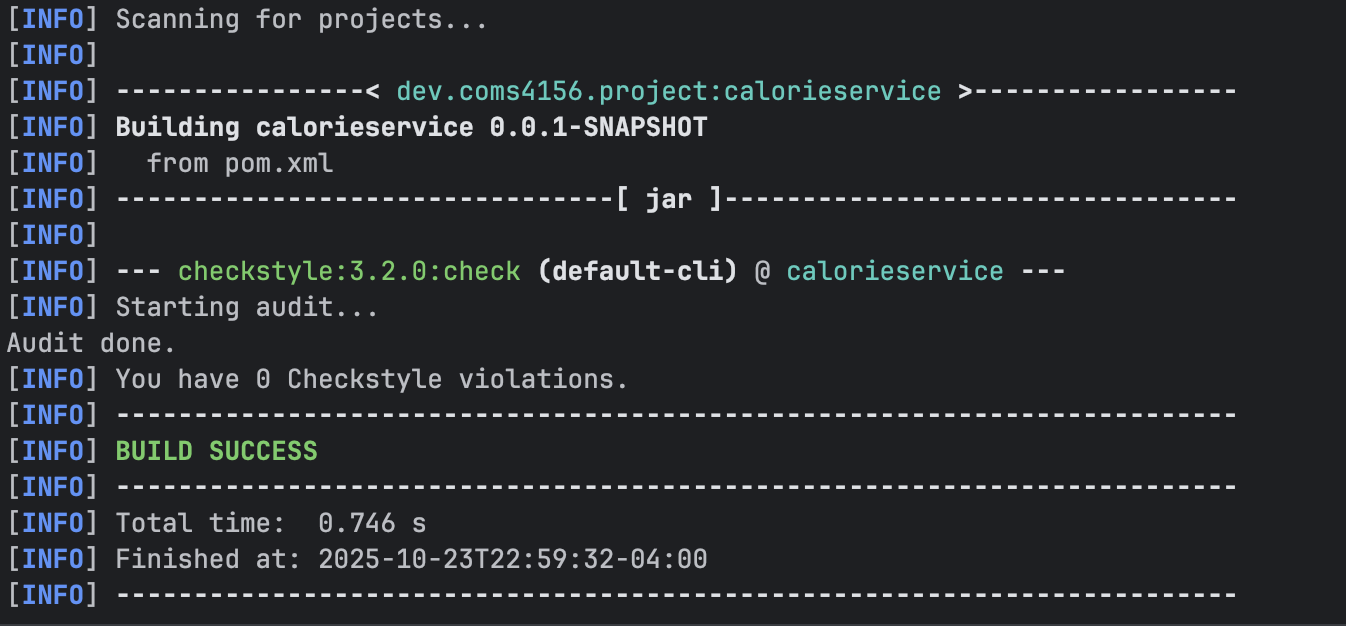
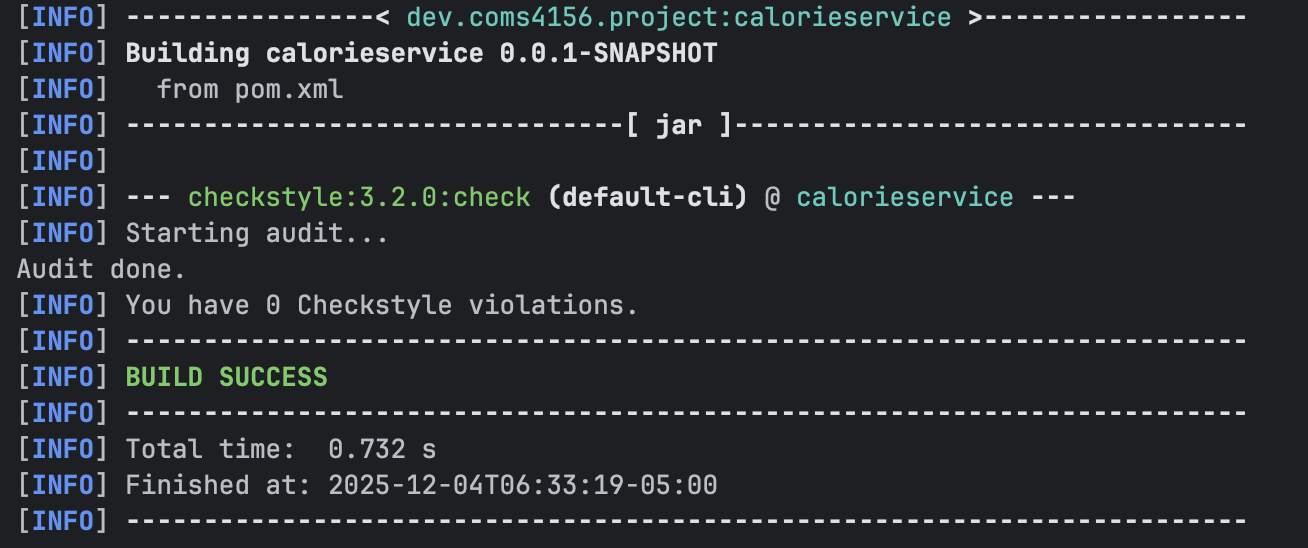
Added README changes.

Changed region(s): [[0.0, 0.0, 1.0, 1.0], [0.6116, 0.9307, 0.948, 0.9617]]

diff --git a/README.md b/README.md
@@ -134,6 +134,117 @@ highest views, as well as 3 random recipes of the same category with lower calor
   * 404 NOT FOUND: Recipe with specified ID not found
   * 500 INTERNAL SERVER ERROR: Server error occurred
 
+## Client Application (Demo Client)
+Our project includes a full React-based demo client located inside this repository at CalorieService/recipe-client/, as well as helper java files located in CalorieService/src/main/java/dev/coms4156/project/calorieservice/client, CalorieService/src/main/java/dev/coms4156/project/calorieservice/config and CalorieService/src/main/java/dev/coms4156/project/calorieservice/controller.
+
+This client provides a graphical interface for interacting with many of the major API endpoint of the Calorie Service. It is used during local development, end-to-end testing, and during our final demo. It should be noted that this demo client serves as an example of what can be made using this service. While this client acts as a recipe recommendation site, another client could easily be made with another purpose, such as a restaurant menu calorie estimator.
+
+### What the Client Does
+The demo client allows a user to:
+- Sign in with a local user ID
+- Get recommended recipe recommendations based on calorie restrictions from the service
+- View recipe details and ingredient calorie breakdowns
+- Like recipes (which records likes both within the client data-store and in the service's DB)
+
+The client communicates directly with the backend service deployed at: https://calorie-service-295107751003.us-east1.run.app/. All network calls are made using a lightweight proxy layer defined in CalorieService/recipe-client/src/App.jsx.
+
+### How to Build and Run the Client
+From the repository root, run:
+1. cd CalorieService/recipe-client
+2. npm install     (first time only)
+3. npm run dev
+
+Then open a browser to:
+http://localhost:5173.
+
+Your client is now connected to the backend service and ready for E2E testing.
+
+### How Multiple Client Instances Are Distinguished
+The service was explicitly designed to handle multiple simultaneous clients.
+The demo client identifies itself to the server using three independent identifiers:
+
+1. X-Client-Id: A static ID for the entire client application (example: 502).
+This distinguishes different client types.
+2. X-Instance-Id: A random UUID generated per browser installation and stored in localStorage.
+This distinguishes multiple clients.
+3. userId: A human-readable user identity meaningful to the UI (ex: "alice01").
+It identifies which local person is currently interacting with the client.
+
+Due to this, multiple instances can interact with the service simultaneously without interfering with each other, and logs clearly indicate which instance and user produced each call. You may use the test files as proof of this behavior: MultiClientLogTests.java and MultiClientRouteControllerTest.java.
+
+### How to Test the Client
+Our demo-client has a features to assist developers when it comes testing their code. Below is a list of the test files and how to run them.
+
+#### CalorieService/recipe-client/src/App.test.jsx
+CalorieService/recipe-client/src/App.test.jsx contains a thorough test file with tests for App.jsx. These tests are used to check as many plausible equivalence partitions for the Client front-end behavior. It is built using Jest.
+
+You can run this test, alongside app.e2e.spec.js when you run <code>npm test</code> from the recipe-client directory. Reports are generated in /CalorieService/recipe-client/coverage/lcov-report/index.html.
+
+#### CalorieService/recipe-client/tests/app.e2e.spec.jsx
+CalorieService/recipe-client/tests/app.e2e.spec.jsx contains a test file with end-to-end tests for App.jsx. It is built using Playwright.
+
+You can run the following steps to test the e2e test files from the recipe-client directory:
+1. npx playwright install (first time only)
+2. npx playwright test
+
+Reports are generated in /CalorieService/recipe-client/test-results/.last-run.json.
+
+These tests cover the following flows:
+1. User can sign in end-to-end: Validates UI changes + /client/log.
+2. Fetching healthy recipe recommendations: covers the /client/recommendHealthy endpoint.
+3. Viewing recipe details: covers /recipe/viewRecipe and /recipe/calorieBreakdown.
+4. Liking a recipe: Covers /client/likeRecipe functionality via LIKE button.
+5. Multiple browser instances: Ensures different windows generate different instanceIds.
+6. Backend error handling: Validates client error bar display on invalid inputs.
+
+All tests communicate with the real client-backend and require both the service and the client to be running.
+
+#### CalorieService/src/test/java/dev/coms4156/project/calorieservice
+This directory contains many test files that test supporting features and capabilities found in ClientEvent.java, CoreConfig.java and ClientLogController.java (see start of this subsection). Corresponding test files are found in CalorieService/src/test/java/dev/coms4156/project/calorieservice and are automatically ran as part of the CI (see <code>mvn clean test</code>).
+
+1. ClientEventTests.java: Tests the ClientEvent.java file.
+2. ClientLogTests.java: Tests the backend component of the client which handles client-based logging. Note that /CalorieService/logs/client-events.log serves as a local persistent data store for the client.
+3. MultiClientLogTests.java: Tests the behavior of a user querying the client (eg. using the client to log into their account the recipe site) and tests for multi-client behavior.
+4. MultiClientRouteController.java: Tests the behavior of a client querying the service (eg. using the service to get recipes that meet the health criteria) and tests for multi-client behavior. Contains many equivalence partitions for Client -> Service Inputs.
+
+## Third-Party Client Developer Guide
+Any third-party developer can build their own client by following these guidelines.
+
+### 1. API Base URL
+All service endpoints are exposed at: https://calorie-service-295107751003.us-east1.run.app/
+
+A third-party client can use any language or environment that supports HTTP calls.
+
+### 2. Required Headers
+Every request must include:
+- X-Client-Id: <integer identifying the client application>
+- X-Instance-Id: <unique ID per installation>
+
+Clients may generate instance IDs however they choose (UUID recommended).
+
+### 3. Authentication / User Context
+Your service uses lightweight, client-managed identifiers:
+- userId (query param)
+- recipeId (query param)
+
+There is no OAuth or authentication requirement.
+
+### 4. Supported API Endpoints
+Full endpoint documentation appears earlier in the README.
+Third-party clients may implement any subset they require.
+
+All responses use JSON.
+
+### 5. Logging Requirement
+All clients must POST to POST /client/log with a JSON body describing:
+- instanceId
+- serviceClientId
+- userId
+- timestamp
+- action event (sign in, view, like, etc.)
+
+This ensures observability across multiple client instances.
+
 ## Project Management Tools
 We used a combination of Jira and a spreadsheet to keep track of tasks. These are the links to them.
 - https://arjunsomekawa.atlassian.net/jira/software/projects/OPS/boards/1?atlOrigin=eyJpIjoiNWY5ZmRkNjQxMWEyNGI0Y2FmZjRjMzBiZWMwNmY0NWYiLCJwIjoiaiJ9
@@ -141,7 +252,7 @@ We used a combination of Jira and a spreadsheet to keep track of tasks. These ar
 
 ## Style Checking Report
 I used the tool "checkstyle" to check the style of our code and generate style checking reports. Here is the report
-as of the day of Oct 23, 2025. (These can be found in the reports folder):
+as of the day of Dec 04, 2025. (These can be found in the reports folder):
 
 ![Screenshot of a checkstyle with no errors](reports/checkstyle_report.png)
 
@@ -158,7 +269,21 @@ I used PMD to perform static analysis on our codebase, see below for the most re
 
 ![Screenshot of PMD analysis report](reports/mvd_report.png)
 
-This image was captured on Oct 23, 2025.
+This image was captured on Dec 04, 2025.
+
+## Jest Testing
+I used Jest to perform end-to-end testing for our client's backend, see below for the most recent output.
+
+![Screenshot of Jest analysis report](reports/npm_report.png)
+
+This image was captured on Dec 04, 2025.
+
+## Playwright Testing
+I used Jest to perform end-to-end testing for our service, see below for the most recent output.
+
+![Screenshot of Playwright analysis report](reports/npx_report.png)
+
+This image was captured on Dec 04, 2025.
 
 ## Continuous Integration Report
 This repository using GitHub Actions to perform continuous integration, to view the latest results go to the following link: https://github.com/Arjunj99/4156-Miniproject-2025-Students-part-3/actions
@@ -167,7 +292,6 @@ This repository using GitHub Actions to perform continuous integration, to view 
 As a group, we discussed and decided that for our project, Endpoint Ordering does not matter.
 
 ## Postman Test Documentation
-
 We used Postman to document and store our API endpoints/results. here is a link to access our API endpoints with sample responses (https://app.getpostman.com/join-team?invite_code=bc1fd36ae7da43f92c0d6aa188720c38c33af18b17aeaa68d339fffbe5decb95&target_code=5bd0b449f27ac1df88f67582412ba439).
 
 ## Tools used 
@@ -191,3 +315,9 @@ This section includes notes on tools and technologies used in building this proj
     * We used Mockito to mock our MockAPIService to do isolated testing of RouteController.
 * Postman
     * We used postman to test that out API works.
+* Playwright 
+    * We used Playwright for automated end-to-end testing of the client against the deployed cloud backend. 
+* Jest + React Testing Library 
+    * Jest is used for unit testing the React client. 
+* Vite 
+    * We use Vite as the development server and bundler for the demo client.
